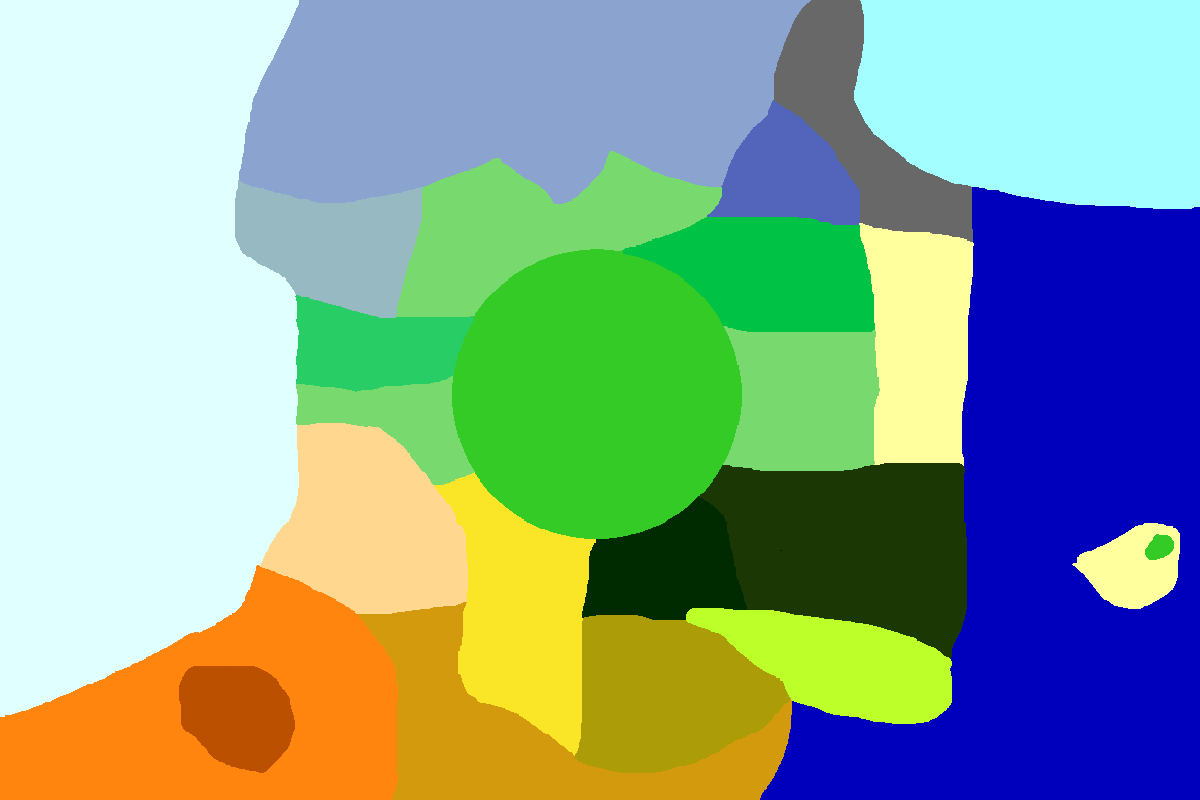
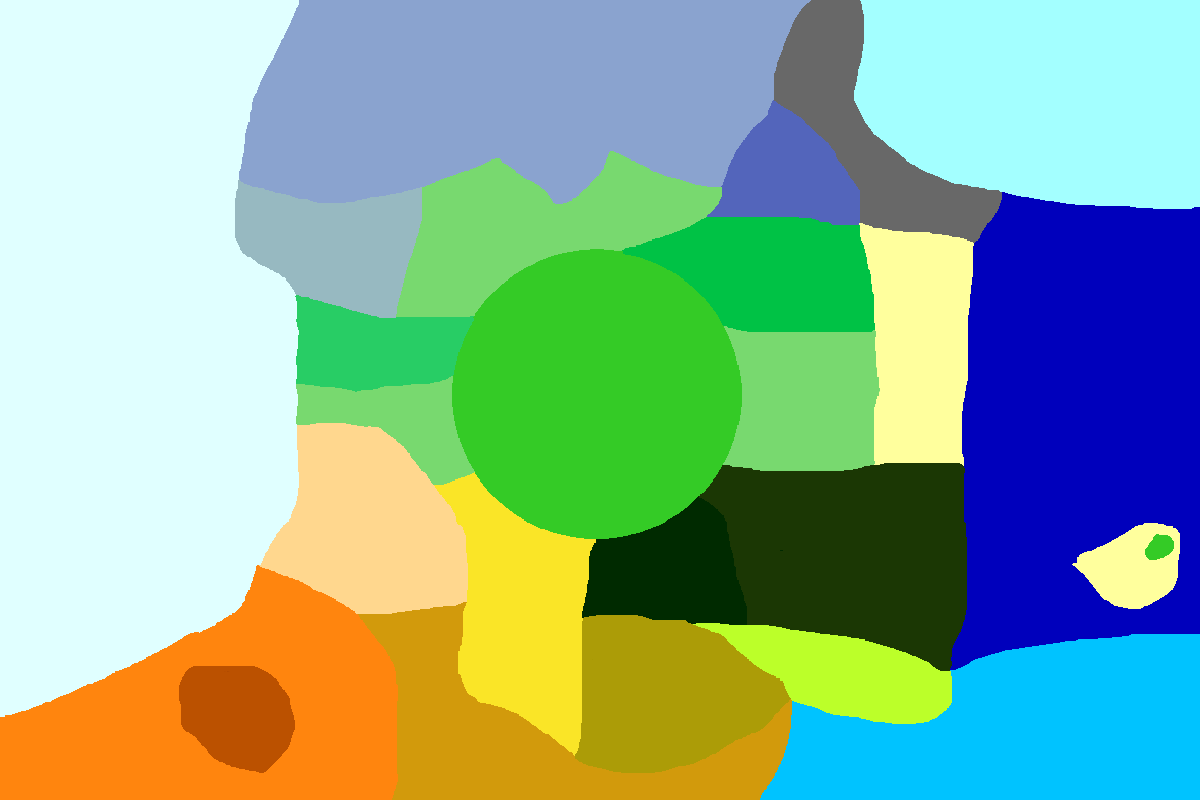
mega taiga and warm oceans

Changed region(s): [[0.555, 0.75, 1.0, 1.0], [0.8017, 0.2188, 0.8325, 0.3125]]

diff --git a/src/main/java/supercoder79/mapfromimage/biome/MegaTaigaGen.java b/src/main/java/supercoder79/mapfromimage/biome/MegaTaigaGen.java
@@ -1,0 +1,30 @@
+package supercoder79.mapfromimage.biome;
+
+import java.util.Random;
+
+import supercoder79.mapfromimage.feature.SprucePoplarTreeGen;
+import xyz.nucleoid.plasmid.game.gen.MapGen;
+
+import net.minecraft.util.math.BlockPos;
+import net.minecraft.util.registry.RegistryKey;
+import net.minecraft.world.Heightmap;
+import net.minecraft.world.ServerWorldAccess;
+import net.minecraft.world.StructureWorldAccess;
+import net.minecraft.world.biome.Biome;
+import net.minecraft.world.biome.BiomeKeys;
+import net.minecraft.world.gen.feature.ConfiguredFeatures;
+
+public class MegaTaigaGen extends TaigaGen {
+	public static final MegaTaigaGen INSTANCE = new MegaTaigaGen();
+
+	@Override
+	public void generate(ServerWorldAccess world, BlockPos pos, Random random) {
+		for (int i = 0; i < 4; i++) {
+			int x = pos.getX() + random.nextInt(16);
+			int z = pos.getZ() + random.nextInt(16);
+			int y = world.getTopY(Heightmap.Type.WORLD_SURFACE_WG, x, z);
+
+			ConfiguredFeatures.MEGA_SPRUCE.generate((StructureWorldAccess) world, null, random, new BlockPos(x, y, z));
+		}
+	}
+}

diff --git a/src/main/java/supercoder79/mapfromimage/biome/WarmOceanGen.java b/src/main/java/supercoder79/mapfromimage/biome/WarmOceanGen.java
@@ -1,0 +1,30 @@
+package supercoder79.mapfromimage.biome;
+
+import java.util.Random;
+
+import net.minecraft.util.math.BlockPos;
+import net.minecraft.util.registry.RegistryKey;
+import net.minecraft.world.Heightmap;
+import net.minecraft.world.ServerWorldAccess;
+import net.minecraft.world.StructureWorldAccess;
+import net.minecraft.world.biome.Biome;
+import net.minecraft.world.biome.BiomeKeys;
+import net.minecraft.world.gen.feature.ConfiguredFeatures;
+
+public class WarmOceanGen extends OceanGen {
+	public static final WarmOceanGen INSTANCE = new WarmOceanGen();
+
+	@Override
+	public void generate(ServerWorldAccess world, BlockPos pos, Random random) {
+		int x = pos.getX() + random.nextInt(16);
+		int z = pos.getZ() + random.nextInt(16);
+		int y = world.getTopY(Heightmap.Type.WORLD_SURFACE_WG, x, z);
+
+		ConfiguredFeatures.WARM_OCEAN_VEGETATION.generate((StructureWorldAccess) world, null, random, new BlockPos(x, y, z));
+	}
+
+	@Override
+	public RegistryKey<Biome> getFakingBiome() {
+		return BiomeKeys.WARM_OCEAN;
+	}
+}

diff --git a/src/main/java/supercoder79/mapfromimage/feature/AspenTreeGen.java b/src/main/java/supercoder79/mapfromimage/feature/AspenTreeGen.java
@@ -1,7 +1,6 @@
 package supercoder79.mapfromimage.feature;
 
 import java.util.Random;
-import java.util.function.Consumer;
 
 import xyz.nucleoid.plasmid.game.gen.GenHelper;
 import xyz.nucleoid.plasmid.game.gen.MapGen;
@@ -12,7 +11,7 @@ import net.minecraft.util.math.BlockPos;
 import net.minecraft.util.math.Direction;
 import net.minecraft.world.ServerWorldAccess;
 
-public class AspenTreeGen implements MapGen {
+public final class AspenTreeGen implements MapGen {
 	public static final AspenTreeGen INSTANCE = new AspenTreeGen();
 
 	@Override

diff --git a/src/main/java/supercoder79/mapfromimage/gen/FromImageBiomeSource.java b/src/main/java/supercoder79/mapfromimage/gen/FromImageBiomeSource.java
@@ -77,6 +77,8 @@ public class FromImageBiomeSource extends BiomeSource {
 				case 0xFFAC9C07: return ShatteredSavannaGen.INSTANCE;
 				case 0xFFE0FFFF: return MountainsGen.INSTANCE;
 				case 0xFFBCFF29: return JungleGen.INSTANCE;
+				case 0xFF00C3FF: return WarmOceanGen.INSTANCE;
+				case 0xFF00C245: return MegaTaigaGen.INSTANCE;
 			}
 		}
 
